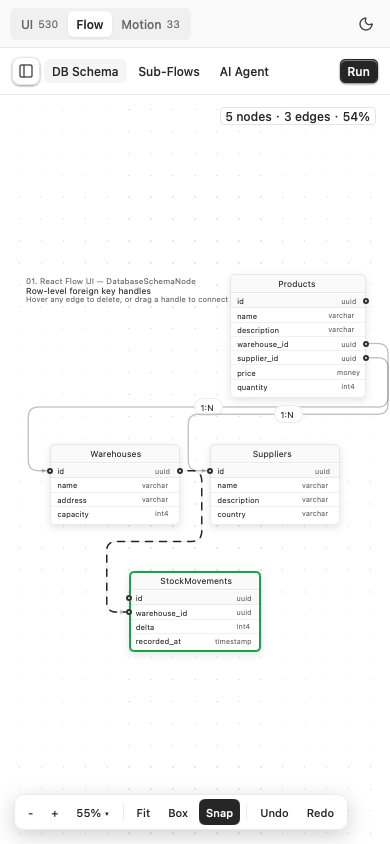
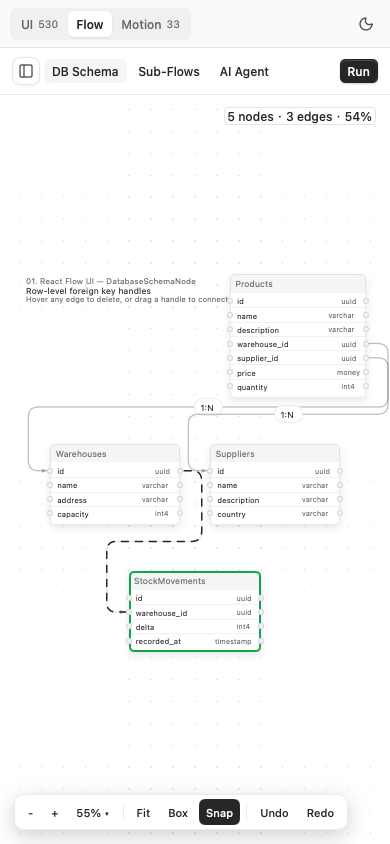
coss: Label is text-sm/4 (16px lines) everywhere, not only in FieldLabel; docs: screenshots of the current showcase

diff --git a/coss/field.go b/coss/field.go
@@ -12,7 +12,7 @@ func Field(c *ui.Context, fn func()) ui.Element {
 
 // FieldLabel renders a form field label, text-sm/4 as field.tsx's.
 func FieldLabel(c *ui.Context, text string) ui.Element {
-	return Label(c, text).LineHeight(16.0 / 14)
+	return Label(c, text)
 }
 
 // FieldControl wraps the primary form control inside a Field.

diff --git a/coss/label.go b/coss/label.go
@@ -11,6 +11,7 @@ func Label(c *ui.Context, text string) ui.Element {
 	return ui.Text(c, text).
 		SingleLine().
 		FontSize(14).
+		FixedLineHeight(16).
 		FontWeight(500).
 		TextColor(t.Foreground)
 }
